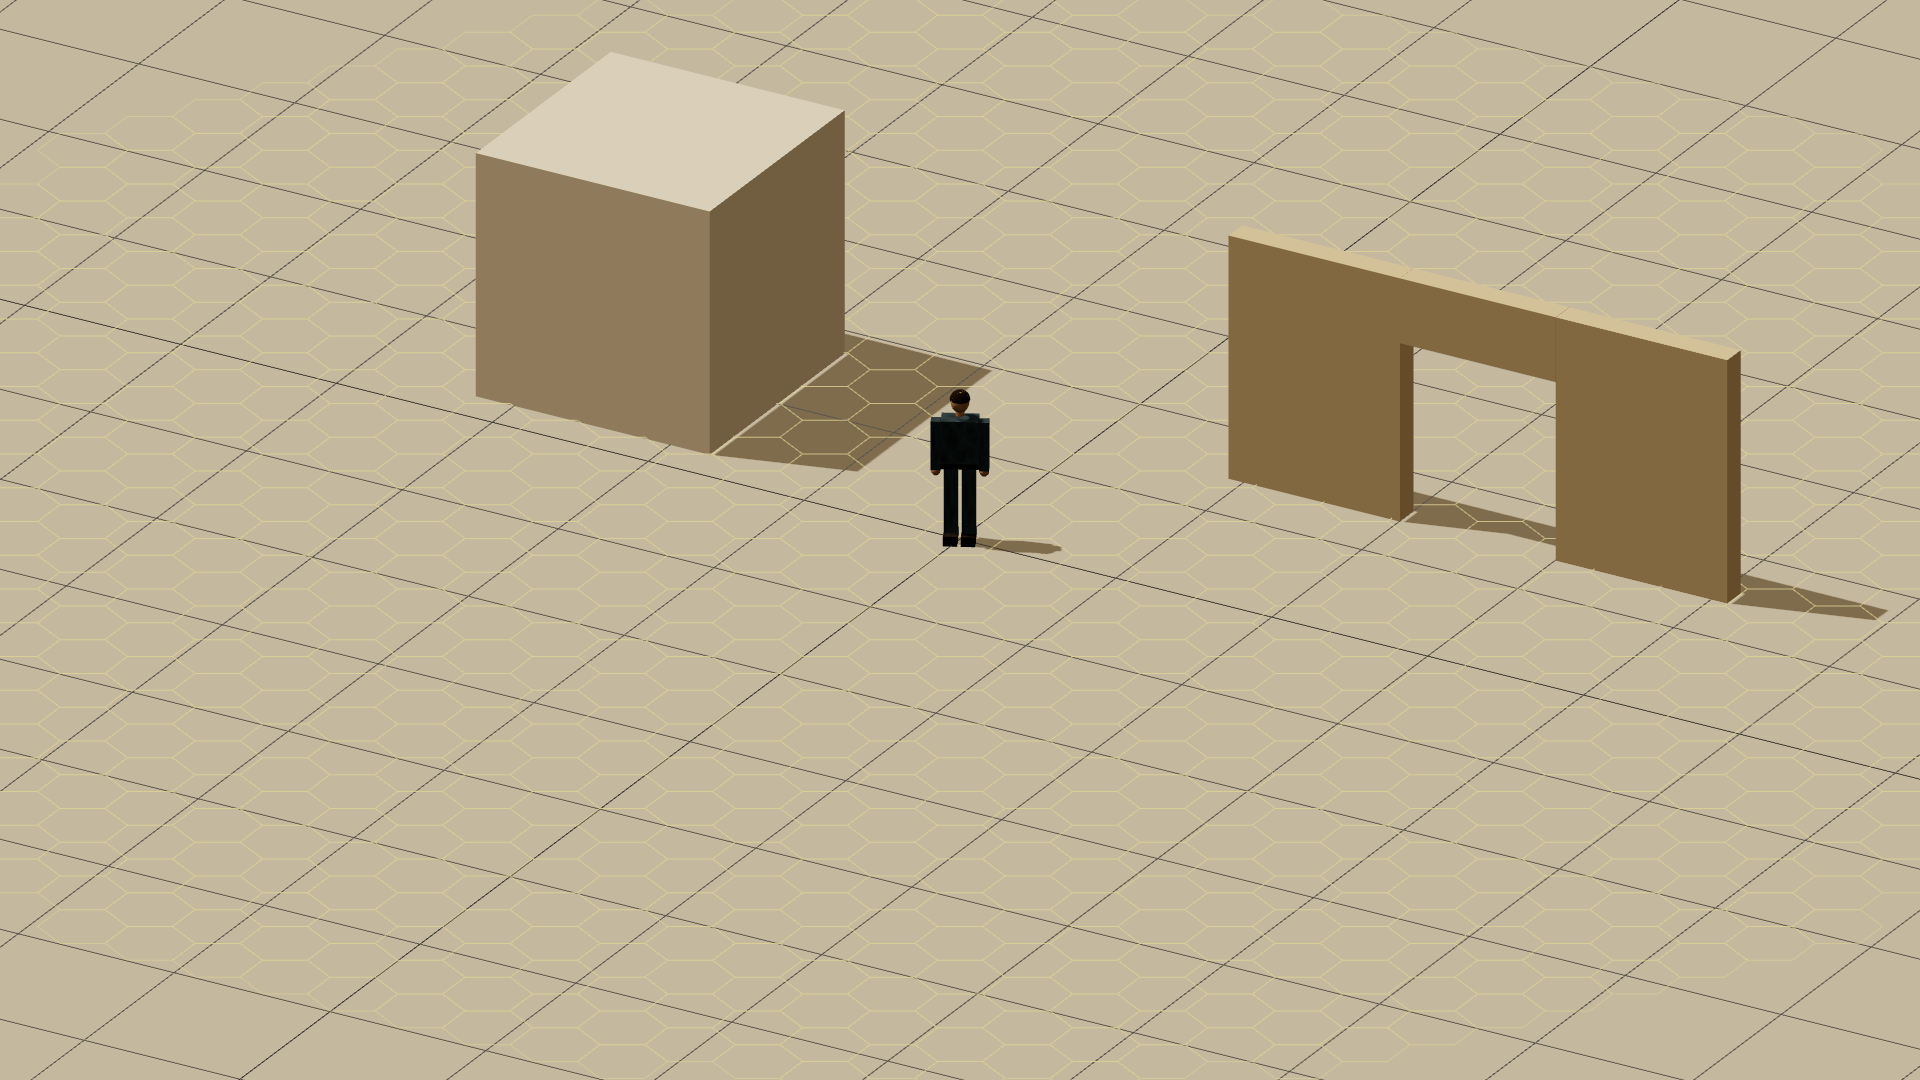
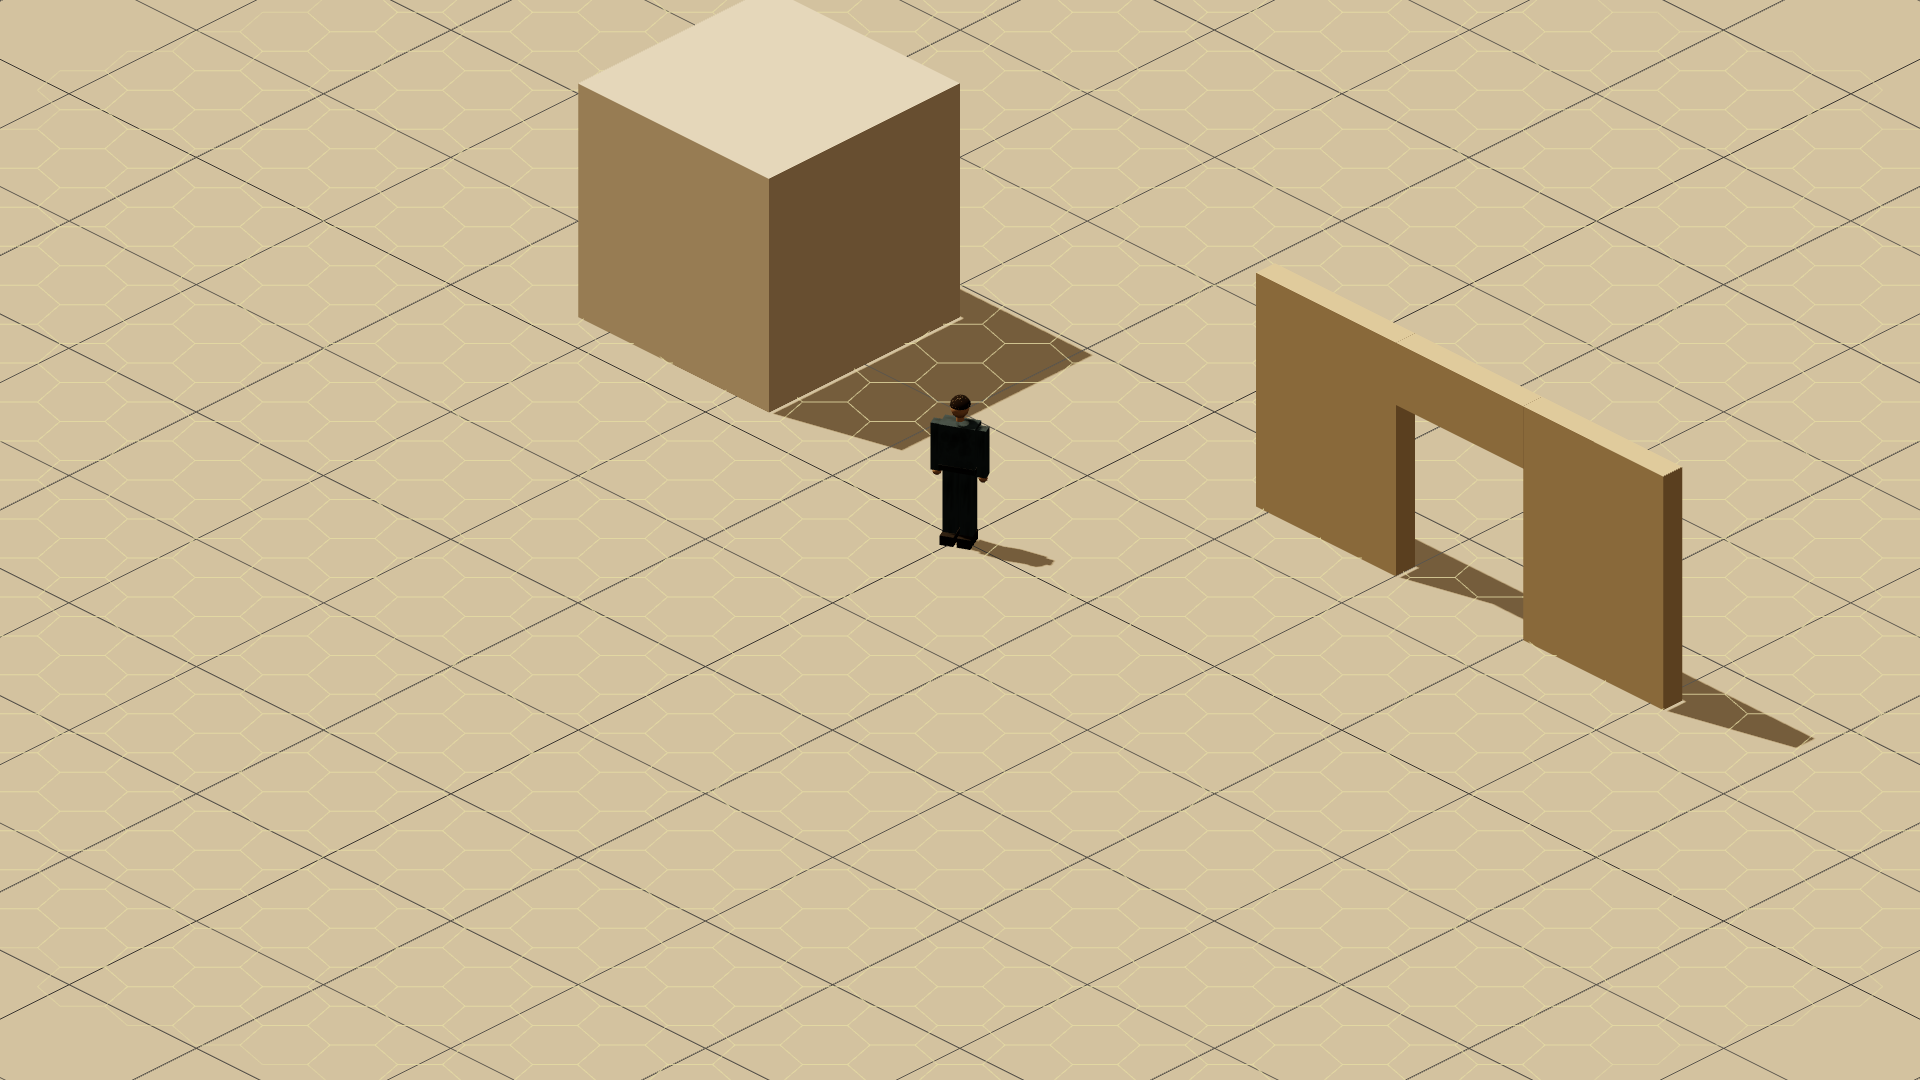
Камера в изометрии 2:1 под арт из Flow, палитра по библии стиля
- Библия стиля из Flow нарисована в классической изометрии 2:1, а не в
  асимметричном ракурсе Fallout 2: камера переключена на поворот 45° и
  наклон 30°, точный ракурс Fallout оставлен в комментарии config.ts
- Свет и песок подтянуты под присланные картинки (ярче, теплее)
- Фон главного меню — вход в миклат № 7 из библии стиля
- Картинки библии стиля сохранены в assets/incoming/style/
- Эталоны для Flow перерисованы в новом ракурсе, блок CAMERA обновлён

Claude-Session: https://claude.ai/code/session_013XjA6CiNKVekdAUWx1gm9r

diff --git a/src/config.ts b/src/config.ts
@@ -1,12 +1,15 @@
 // Геометрия камеры и мира.
 //
-// Ракурс снят с Fallout 2: тайл пола там 80×36 пикселей, его рёбра идут с
-// наклоном 1:4 и 3:4. Ортографическая камера даёт ровно такую картинку при
-// повороте на 30° относительно сетки тайлов и наклоне asin(√3/4) ≈ 25.66°.
-// Все фоны для игры должны рисоваться в этом ракурсе (см. docs/guides).
+// Классическая изометрия 2:1 (как в Fallout 2 «на глаз», Diablo 2, Baldur's Gate):
+// поворот 45°, наклон 30°, стены идут по двум диагоналям с наклоном 1:2.
+// Именно в этом ракурсе стабильно рисуют генераторы картинок (проверено на
+// библии стиля из Flow), поэтому фоны ложатся на игровую сетку без подгонки.
+//
+// Точный ракурс Fallout 2 (тайл 80×36, асимметричные диагонали 1:4 и 3:4):
+//   CAM_YAW = Math.PI / 6, CAM_PITCH = Math.asin(Math.sqrt(3) / 4).
 
-export const CAM_YAW = Math.PI / 6;
-export const CAM_PITCH = Math.asin(Math.sqrt(3) / 4);
+export const CAM_YAW = Math.PI / 4;
+export const CAM_PITCH = Math.PI / 6;
 export const SIN_PITCH = Math.sin(CAM_PITCH);
 
 /** Радиус гекса (центр → вершина) в метрах. Гекс шириной 1 м, как в Fallout: человек ≈ 1.7 гекса ростом на экране. */

diff --git a/src/style.css b/src/style.css
@@ -301,20 +301,7 @@ button { font-family: inherit; }
 .screen { position: fixed; inset: 0; z-index: 30; overflow: auto; }
 .screen > .win { margin: auto; }
 .menu-screen { background: #000; }
-.menu-bg {
-  position: absolute; inset: 0;
-  background:
-    radial-gradient(ellipse at 70% 75%, rgba(230, 140, 60, .35), transparent 55%),
-    radial-gradient(ellipse at 30% 20%, rgba(255, 220, 160, .12), transparent 45%),
-    linear-gradient(180deg, #2a1a10 0%, #6a3a1a 55%, #c07a3a 78%, #3a2414 100%);
-}
-.menu-bg::after {
-  content: ''; position: absolute; left: 0; right: 0; bottom: 0; height: 32%;
-  background:
-    linear-gradient(transparent, rgba(0, 0, 0, .85)),
-    repeating-linear-gradient(90deg, #1a120c 0 40px, #22170e 40px 140px, #140d08 140px 180px, #1d140c 180px 320px);
-  clip-path: polygon(0 40%, 6% 38%, 6% 20%, 9% 20%, 9% 36%, 18% 34%, 22% 10%, 23% 10%, 24% 34%, 33% 30%, 33% 18%, 40% 18%, 40% 30%, 52% 32%, 58% 0%, 60% 0%, 61% 30%, 70% 34%, 74% 22%, 82% 22%, 82% 36%, 92% 38%, 92% 26%, 96% 26%, 96% 40%, 100% 42%, 100% 100%, 0 100%);
-}
+.menu-bg { position: absolute; inset: 0; background-color: #2a1a10; background-size: cover; background-position: 60% 50%; }
 .menu-title { position: absolute; left: 8%; top: 14%; zoom: var(--s); }
 .menu-title .t1 { font: 700 150px 'Oswald'; letter-spacing: .14em; color: #e8b46a; text-shadow: 4px 4px 0 #3a1a08, 0 0 40px rgba(255, 160, 60, .35); line-height: 1; }
 .menu-title .t2 { font: 500 30px 'Oswald'; letter-spacing: .3em; color: #d9c497; margin-top: 6px; text-shadow: 2px 2px 0 #000; }

diff --git a/src/data/kibbutz.ts b/src/data/kibbutz.ts
@@ -5,8 +5,8 @@
 import type { LevelDef } from '../world/level';
 import type { CritterDef } from '../world/critter';
 
-const CONCRETE = 0xa39a88;
-const PLASTER = 0xb8a98c;
+const CONCRETE = 0x9e988c;
+const PLASTER = 0xc4b8a0;
 const FLOOR = 0x7d7466;
 
 export const KIBBUTZ: LevelDef = {
@@ -14,7 +14,7 @@ export const KIBBUTZ: LevelDef = {
   name: 'Кибуц Нахаль-Ор',
   cols: 48,
   rows: 56,
-  groundColor: 0xb09872,
+  groundColor: 0xd2b27a,
   props: [
     { type: 'hatch', u: 6, v: 43 },
     {
@@ -49,8 +49,8 @@ export const KIBBUTZ: LevelDef = {
     { type: 'rubble', u: 8, v: 31, w: 1.8, d: 1.5 },
     { type: 'rubble', u: 30, v: 5, w: 2, d: 2 },
     { type: 'sign', u: 17, v: 45.5, text: 'נחל אור', sub: 'Кибуц Нахаль-Ор', id: 'gateSign' },
-    { type: 'sandbags', u: 22, v: 46.5, w: 2.8, rot: -30 },
-    { type: 'sandbags', u: 12, v: 46.5, w: 2.8, rot: -30 },
+    { type: 'sandbags', u: 22, v: 46.5, w: 2.8, rot: 45 },
+    { type: 'sandbags', u: 12, v: 46.5, w: 2.8, rot: 45 },
     {
       type: 'box', u: 30.5, v: 10.5, w: 1.2, d: 0.9, h: 0.25, color: 0xd8d0bc, low: true,
       name: 'Кости', desc: 'Обглоданные кости. Козьи. Кажется, козьи.', id: 'bones',

diff --git a/src/world/view.ts b/src/world/view.ts
@@ -32,7 +32,7 @@ export class View {
     this.renderer.shadowMap.type = THREE.PCFSoftShadowMap;
     this.renderer.outputColorSpace = THREE.SRGBColorSpace;
     this.renderer.toneMapping = THREE.ACESFilmicToneMapping;
-    this.renderer.toneMappingExposure = 0.98;
+    this.renderer.toneMappingExposure = 1.3;
     this.renderer.setClearColor(0x000000);
     container.appendChild(this.renderer.domElement);
 
@@ -43,8 +43,8 @@ export class View {
       Math.cos(CAM_YAW) * Math.cos(CAM_PITCH),
     );
 
-    this.scene.add(new THREE.HemisphereLight(0xffdcae, 0x3a2c1e, 1.05));
-    this.sun = new THREE.DirectionalLight(0xffe4bc, 2.7);
+    this.scene.add(new THREE.HemisphereLight(0xffdcae, 0x3a2c1e, 0.9));
+    this.sun = new THREE.DirectionalLight(0xffe2b4, 3.1);
     this.sun.castShadow = true;
     this.sun.shadow.mapSize.set(2048, 2048);
     const sc = this.sun.shadow.camera;

diff --git a/src/ui/screens.ts b/src/ui/screens.ts
@@ -18,7 +18,7 @@ function redButton(label: string, act: () => void, cls = '') {
 export function mainMenu(root: HTMLElement, hasSave: boolean): Promise<'new' | 'load'> {
   return new Promise((resolve) => {
     const s = el('div', 'screen menu-screen');
-    s.innerHTML = `<div class="menu-bg"></div>
+    s.innerHTML = `<div class="menu-bg" style="background-image: linear-gradient(90deg, rgba(10,6,3,.92) 0%, rgba(10,6,3,.55) 38%, rgba(10,6,3,0) 65%), url('art/menu.webp')"></div>
       <div class="menu-title"><div class="t1">${GAME_TITLE}</div><div class="t2">${GAME_SUBTITLE}</div></div>
       <div class="menu-ver">прототип 0.1 · графика-заглушка</div>`;
     const btns = el('div', 'menu-btns metal');

diff --git a/src/guide.ts b/src/guide.ts
@@ -23,13 +23,13 @@ function setupRenderer(w: number, h: number) {
   r.shadowMap.type = THREE.PCFSoftShadowMap;
   r.outputColorSpace = THREE.SRGBColorSpace;
   r.toneMapping = THREE.ACESFilmicToneMapping;
-  r.toneMappingExposure = 1.05;
+  r.toneMappingExposure = 1.3;
   return r;
 }
 
 function lights(scene: THREE.Scene, center: THREE.Vector3, span: number) {
-  scene.add(new THREE.HemisphereLight(0xffe6c0, 0x4a3b28, 1.25));
-  const sun = new THREE.DirectionalLight(0xfff0d6, 2.4);
+  scene.add(new THREE.HemisphereLight(0xffdcae, 0x3a2c1e, 0.9));
+  const sun = new THREE.DirectionalLight(0xffe2b4, 3.1);
   sun.position.set(center.x - 22, 40, center.z + 6);
   sun.target.position.copy(center);
   sun.castShadow = true;

diff --git a/docs/PROMPTS.md b/docs/PROMPTS.md
@@ -15,8 +15,10 @@ Art style: 1990s pre-rendered isometric CRPG, exactly like Fallout 2 (1998) and 
 
 **CAMERA** (только для фонов локаций)
 ```
-Camera: strict orthographic isometric projection from above, identical to the Fallout 2 game camera: about 26 degrees above the horizon, no perspective distortion, parallel lines stay parallel. Building walls follow two diagonals: one rises gently towards the upper right (slope about 1:4), the other descends steeply towards the lower right (slope about 3:4). Match the camera angle of the attached reference image exactly.
+Camera: classic 2:1 isometric game view, orthographic, no perspective distortion, parallel lines stay parallel. Camera rotated 45 degrees and tilted 30 degrees down from the horizon, so building walls follow the two diagonals of the image at a 1:2 slope (26.6 degrees). Match the camera angle and scale of the attached reference image exactly.
 ```
+
+> Ракурс сверен по вашей библии стиля: Flow сам рисует именно так, и игра теперь использует тот же угол.
 
 **NEGATIVE** (если в Flow есть поле «чего избегать»)
 ```
@@ -27,7 +29,7 @@ perspective, fisheye, vanishing point, top-down flat view, side view, characters
 
 ## 1. Библия стиля (сделать первой)
 
-Цель — 8–10 картинок, по которым мы утвердим вид игры. Сгенерируйте по 2–4 варианта каждого промпта и выберите лучшие. Прикрепите `docs/guides/grid.png` как референс ракурса.
+Цель — 8–10 картинок, по которым мы утвердим вид игры. **Первая партия (S1–S3) получена и одобрена** — лежит в `assets/incoming/style/`. Сгенерируйте по 2–4 варианта каждого промпта и выберите лучшие. Прикрепите `docs/guides/grid.png` как референс ракурса.
 
 **S1. Руины кибуца, общий вид**
 ```

diff --git a/README.md b/README.md
@@ -6,7 +6,7 @@
 
 ## Что уже есть
 
-- Ракурс камеры Fallout 2 (тайл 80×36 → поворот 30°, наклон ≈25.7°), гексовая сетка, прокрутка краями экрана.
+- Изометрия 2:1 (поворот 45°, наклон 30°) — в ней стабильно рисует Flow; точный ракурс Fallout 2 включается двумя константами в `src/config.ts`. Гексовая сетка, прокрутка краями экрана.
 - «Профиль»: 7 характеристик, 18 навыков, 3 отмеченных навыка, 6 черт характера — формулы Fallout 2.
 - Пошаговый бой: очки действия, очерёдность, остаток ОД в класс брони, прицельные выстрелы по частям тела, криты, порог и сопротивление брони, перезарядка, две руки.
 - Исследование в реальном времени, переход в бой, когда враг замечает героя.
